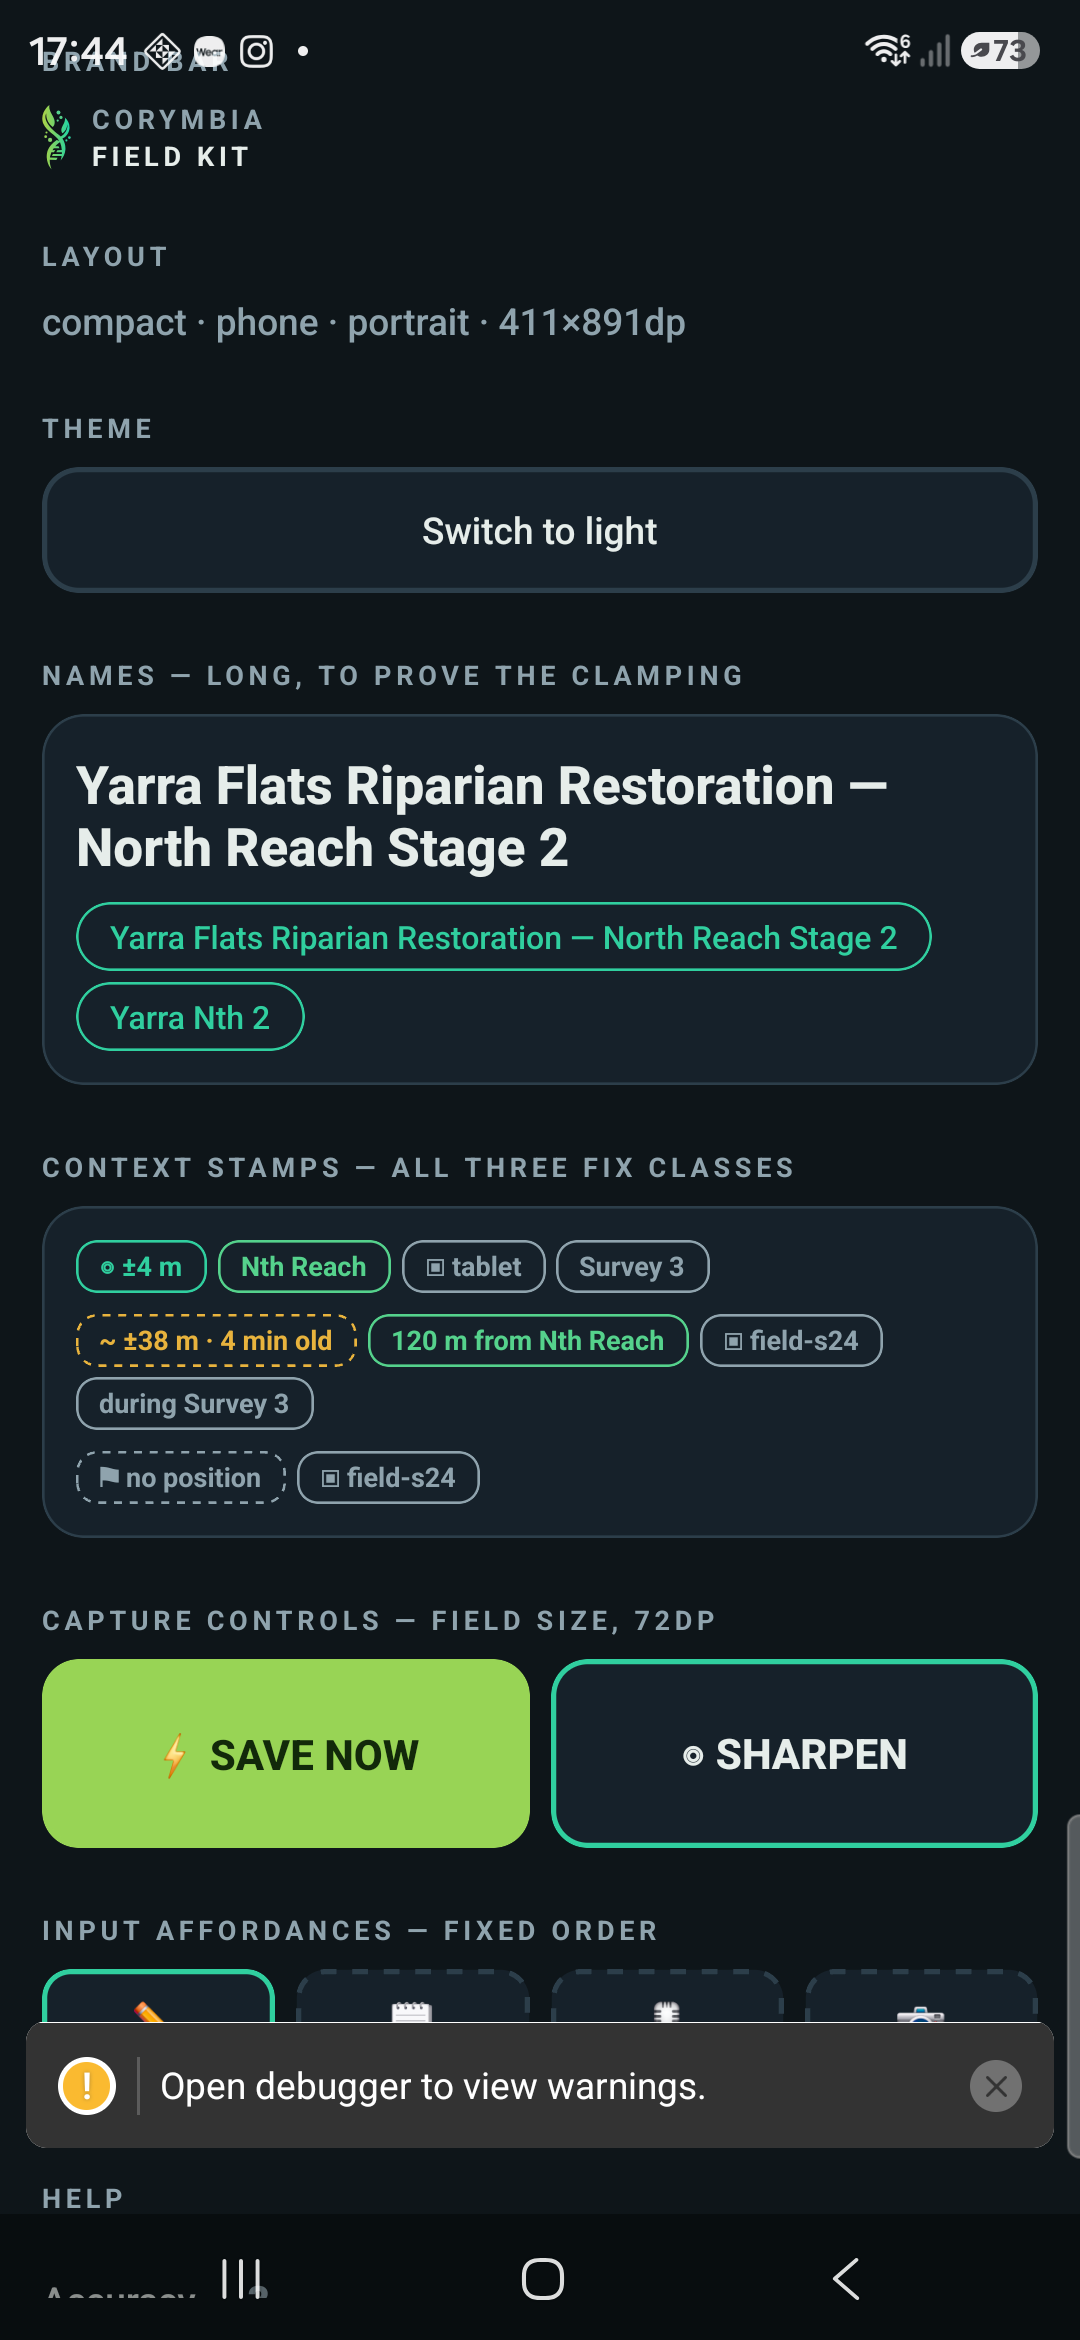
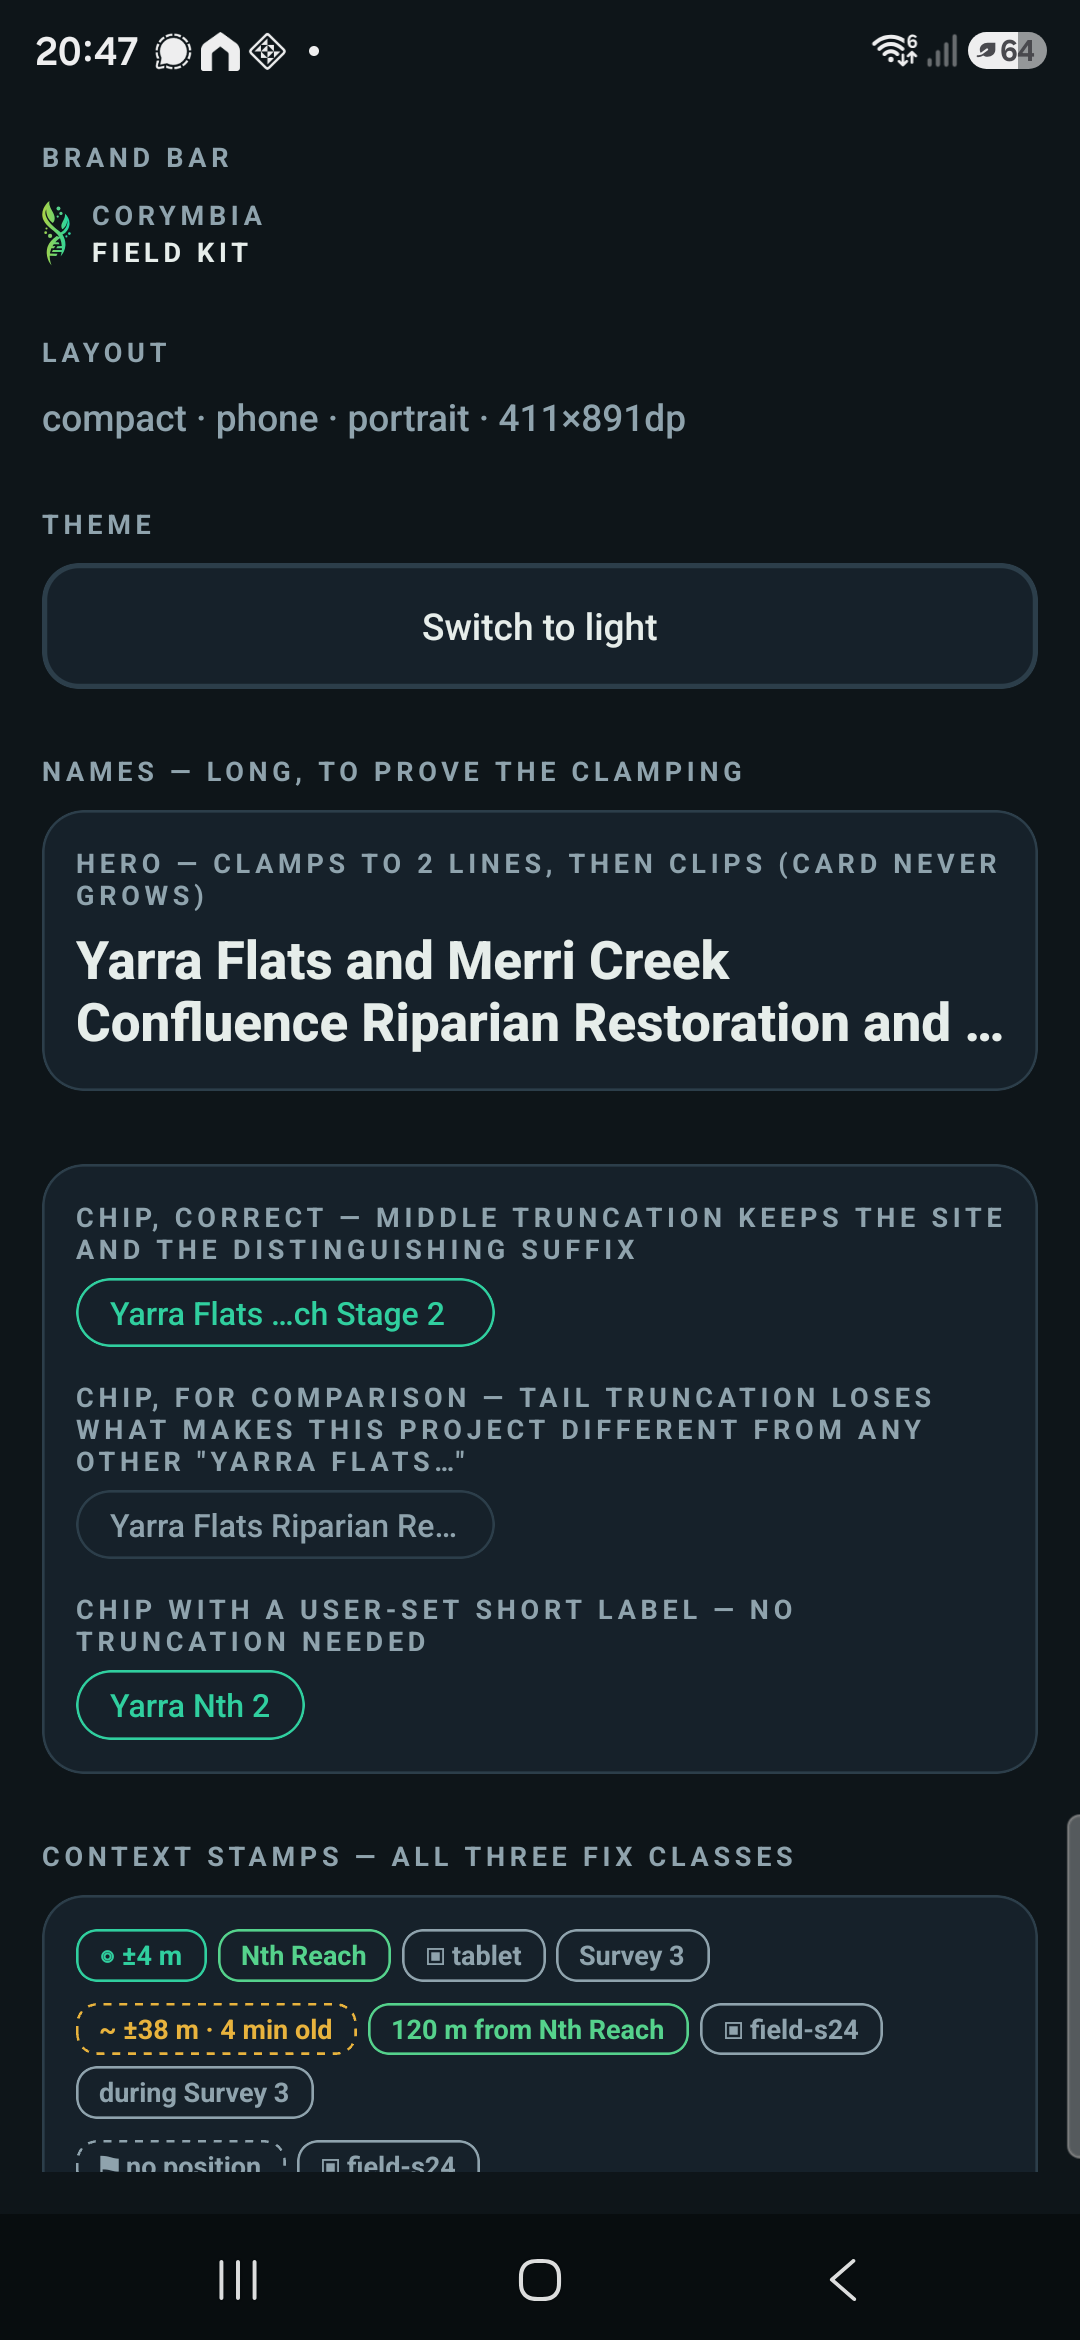
chore(app): make the gallery actually demonstrate name clamping and middle truncation
NameChip now stretches to fill its container correctly, so the gallery's long
project name simply fit without ever truncating — the section proved nothing.
Constrain the demo instead of the components: a genuinely overflowing hero
name to show the two-line clamp, and a maxWidth-constrained chip to force
middle truncation, shown beside a tail-truncated comparison built from Type
directly so the doctrine's front-site/back-suffix rule is visible, not just
asserted.

Claude-Session: https://claude.ai/code/session_01E5UkRfbRSagHNeYr5imHyi

diff --git a/apps/fieldkit/src/gallery/sections.tsx b/apps/fieldkit/src/gallery/sections.tsx
@@ -1,6 +1,6 @@
 import React from 'react'
 import { View } from 'react-native'
-import { spacing } from '@corymbia/tokens'
+import { radii, spacing } from '@corymbia/tokens'
 import {
   Button,
   Card,
@@ -15,7 +15,21 @@ import {
 } from '@corymbia/ui'
 import { CorymbiaMark } from '@corymbia/brand'
 
-const LONG_NAME = 'Yarra Flats Riparian Restoration — North Reach Stage 2'
+// Long enough that, wrapped at the two-line hero width on any device class,
+// it genuinely overflows a third line — so the tail clip in ProjectName is
+// actually exercised rather than merely available.
+const HERO_OVERFLOW_NAME =
+  'Yarra Flats and Merri Creek Confluence Riparian Restoration and Endangered Growling Grass Frog Habitat Recovery Program — North Reach, Long-Term Monitoring, Stage 2 of 7'
+
+// Realistic project name: front-loaded with the site, back-loaded with the
+// part that actually distinguishes it (the reach and stage). Middle
+// truncation is only visible if the chip is forced narrower than this text's
+// natural width, hence CHIP_CONSTRAINED_WIDTH below.
+const CHIP_NAME = 'Yarra Flats Riparian Restoration — North Reach Stage 2'
+
+// Narrow enough to force NameChip to truncate; wide enough that the clipped
+// result is still legible as "still recognisably a name".
+const CHIP_CONSTRAINED_WIDTH = 160
 
 function Section({ title, children }: { title: string; children: React.ReactNode }) {
   return (
@@ -29,7 +43,7 @@ function Section({ title, children }: { title: string; children: React.ReactNode
 }
 
 export function GallerySections() {
-  const { name, setTheme } = useTheme()
+  const { name, setTheme, theme } = useTheme()
   const { sizeClass, deviceClass, orientation, width, height } = useLayout()
 
   return (
@@ -62,11 +76,63 @@ export function GallerySections() {
 
       <Section title="Names — long, to prove the clamping">
         <Card>
-          <ProjectName name={LONG_NAME} />
-          <View style={{ height: spacing.sm }} />
-          <NameChip name={LONG_NAME} />
+          <Type variant="label" dim>
+            HERO — CLAMPS TO 2 LINES, THEN CLIPS (CARD NEVER GROWS)
+          </Type>
           <View style={{ height: spacing.xs }} />
-          <NameChip name={LONG_NAME} shortLabel="Yarra Nth 2" />
+          <ProjectName name={HERO_OVERFLOW_NAME} />
+        </Card>
+
+        <View style={{ height: spacing.md }} />
+
+        <Card>
+          <Type variant="label" dim>
+            CHIP, CORRECT — MIDDLE TRUNCATION KEEPS THE SITE AND THE
+            DISTINGUISHING SUFFIX
+          </Type>
+          <View style={{ height: spacing.xs }} />
+          <NameChip name={CHIP_NAME} maxWidth={CHIP_CONSTRAINED_WIDTH} />
+
+          <View style={{ height: spacing.md }} />
+
+          <Type variant="label" dim>
+            CHIP, FOR COMPARISON — TAIL TRUNCATION LOSES WHAT MAKES THIS
+            PROJECT DIFFERENT FROM ANY OTHER "YARRA FLATS…"
+          </Type>
+          <View style={{ height: spacing.xs }} />
+          <View
+            style={{
+              alignSelf: 'flex-start',
+              maxWidth: CHIP_CONSTRAINED_WIDTH,
+              borderWidth: 1,
+              borderColor: theme.colors.border,
+              borderRadius: radii.pill,
+              paddingHorizontal: spacing.md,
+              paddingVertical: spacing.xs,
+            }}
+          >
+            <Type
+              variant="small"
+              dim
+              numberOfLines={1}
+              ellipsizeMode="tail"
+              accessibilityLabel={CHIP_NAME}
+            >
+              {CHIP_NAME}
+            </Type>
+          </View>
+
+          <View style={{ height: spacing.md }} />
+
+          <Type variant="label" dim>
+            CHIP WITH A USER-SET SHORT LABEL — NO TRUNCATION NEEDED
+          </Type>
+          <View style={{ height: spacing.xs }} />
+          <NameChip
+            name={CHIP_NAME}
+            shortLabel="Yarra Nth 2"
+            maxWidth={CHIP_CONSTRAINED_WIDTH}
+          />
         </Card>
       </Section>
 
